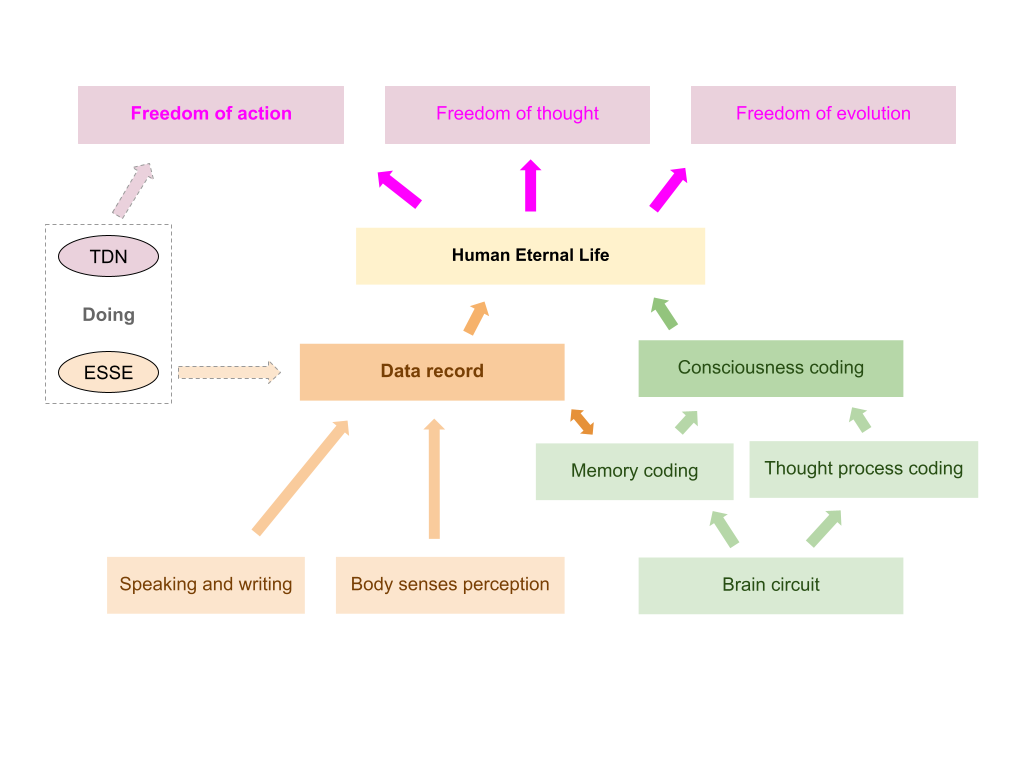
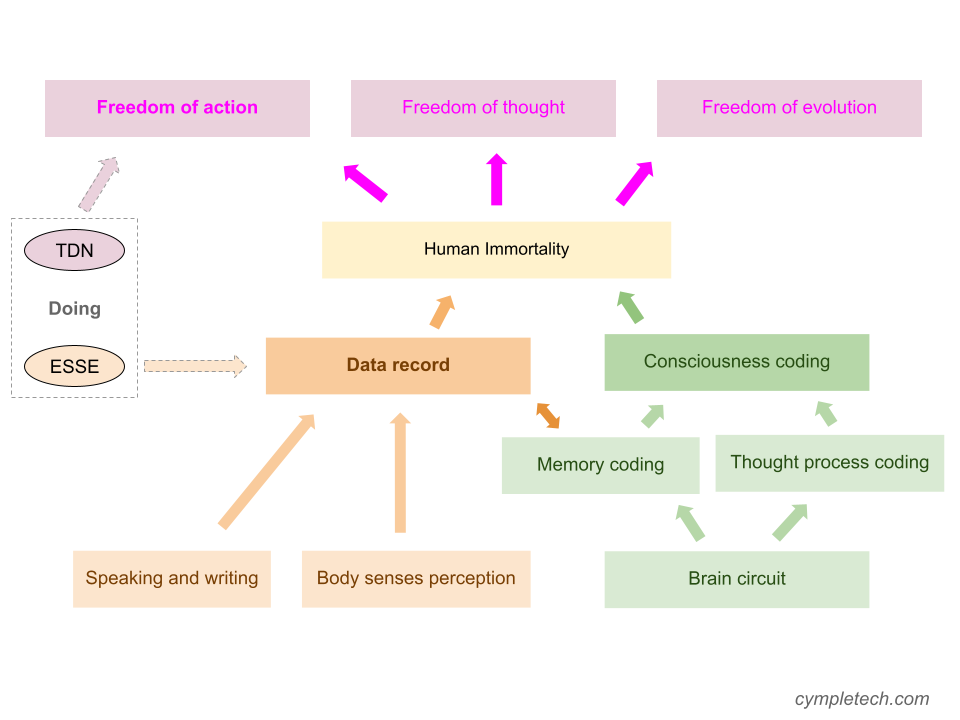
add some docs

diff --git a/docs/langs/waht-we-are-doing_zh.md b/docs/langs/waht-we-are-doing_zh.md
@@ -1,0 +1,46 @@
+众所周知，我们所处的这个行业从来不缺花哨概念，web3/元宇宙/？？等作为噱头被信手拈来，而我们身处风暴中，难免迷失，为了能够看清继续前进的方向，我想好好总结一下，主要会从两条线进行梳理：一是初心；二是目前所做项目的进度与规划。
+
+
+### 一. 初心
+
+
+人活着最终极的梦想是什么呢？
+
+长生不老。
+
+
+而构成人的要素，简单来说，就两种：人的肉体和人的意识。长生不老无非也是从这两个方向下手，要不就改造肉体，修改基因，让细胞能够保持活力甚至再生；要不就延续意识，给予意识一个载体，让其可以永存。前一种或许可以实现，但无法大规模应用，因为如果人人都能长生不老，那逐渐增加的人口对资源的需求量将不可预估，哪怕能够移居外星，哪怕能够实现资源再生，“人口炸弹”也会永远成为一个潜在隐患。而且换个角度来讲，这个方案也需要伴随着高昂的后期投入，普通大众是否人人都能负担得起呢？
+
+
+而后一种方案——延续意识，相对来说，技术复制成本低，后期维护成本低，更有可能成为让所有人都能负担得起，享受得到的长生不老方案。
+
+
+那么延续意识需要具备哪些基础呢？我认为可以区分为：“现在的意识”和“过去的意识”。“现在的意识”是我们能够基于过去的经验积累，对目前现实生活中的刺激，做出相应反应的能力，这一块主要是对大脑运行机制的研究，相关的研究如“脑机接口”等也正在进行中，相信未来某一天会有机会实现，暂时先不做讨论。“过去的意识”包括我们过去输入和输出的各种信息，输入的信息包括我们的身体感官（神经、肌肉、皮肤等）所接受的生理信息，我们读过的每一本书、看过的每一部电影、听过的每一首歌等文化信息；输出的信息包括我们对外发布的一切信息，比如每一条语音、每一张照片、每一条朋友圈、每一句影评乐评甚至是脏话，这些信息现在也正以数据的形式存在着，是被数字信号编译的“我的一部分”。
+
+
+不知道大家有没有看过《黑镜》，其中第二季的第一集就讲述了一个基于逝者生前在网络上发布的文字、照片、视频等信息，通过AI技术进行整合计算，使逝者“获得重生”以陪伴在爱人身边的故事。而这次“重生”的基础，就是我前面提到的“输出信息”。而反观现实生活，我意识到我所有输出的内容，都被平台掌控，平台可以随意地使用、删改我所输出的内容，也就是说，被数字信号所编译的“这一部分我”并不属于我。那么如果技术足够成熟，拥有我数据的平台是不是可以随意复制出一个我呢？（这确实让我后背发凉。）
+
+
+### 二. 目前所做项目的进度与规划
+
+
+因此，我想基于自己的「数据所有权」做一系列尝试，希望能为每个人构建一个安全的数据环境，提供一种真正掌握自己数据的可能。我的地盘，我做主。
+
+
+ESSE：提供数据的可视化和交互入口。拥有面向普通使用者的友好界面，将抽象的数据概念，转化为人人可以实际体验的软件。目前已经初步构建好，具备了包括点对点聊天，群组，笔记，钱包等等实用的功能。
+
+
+TDN：构建一个安全的数据传输通道。包括 P2P 网络，局部网络，中心化网络，虚拟网络，代理与转发网络等。目前已经构建好大部分，已投入实际使用中。
+
+
+PDS：构建一个安全的数据存储方式。包括数据的本地加密存储，个人多设备同步，加密云存储，去中心化存储等。目前正在构建中，部分已实际使用。
+
+
+PDC：构建一个安全的数据处理方式。包含数据的处理的方方面面，数据的可读，可写，可更改，可删除，可安全计算等。目前正在构建中。
+
+
+PDE：构建一个安全的数据分享方式。一种授权他人使用自己数据的能力，包括数据的安全且可靠的交易，数据的共享等。目前也正在构建中。
+
+![Projects with Immortality](https://docs.cympletech.com/what-we-are-doing_zh.png)
+
+为了数据隐私，为了意识延续，奋力前行。Happy Hacking ！

diff --git a/docs/content/docs/introduction.md b/docs/content/docs/introduction.md
@@ -15,22 +15,34 @@ top = false
 +++
 
 ## What is CympleTech
-TODO
+we focus on build modern data security for everyone. Everyone should have the ownership of their data, your place, your rules.
 
 ## What is ESSE
-TODO
+ESSE (Encrypted Symmetrical Session Engine) An open source encrypted peer-to-peer system for data security, and allow data to be sent securely from one terminal to another without going through third-party services.
 
-**Why we need it**
+ESSE, positioned as an engine. The engine is coded in Rust language based on TDN framework, and the cross-platform user interface is built using Flutter.
 
-TODO
+**Features**
 
-**How to use it**
-
-TODO
-
-**Open source and License**
-
-TODO
+- Data Security Fortress
+- Encryption Everywhere
+- Distributed Identity
+- Distributed Devices
+- Distributed Notes & Files
+- Distributed Storage & Synchronization
+- Built-in IM Application
+- Built-in Group Chat Application
+- Built-in Domain Application
+- Built-in Wallet Application (Support ETH/ERC20/ERC721)
+- Built-in Robot assistant Application
+- Multi-identity System
+- Multi-platform Support: Android, iOS, iPadOS, MacOS, Windows, Linux, etc.
 
 ## What is TDN
-TODO
+Trusted Distributed Network. (Also a micro-framework for building blockchain-like applications).
+
+TDN: Let data transfer safely, make the network stable, secure, and highly available.
+
+As the network interconnection, TDN includes peer-to-peer, centralized gateway, proxy & relay service, LAN, RPC, Near, etc.
+
+As the framework of decentralized applications, TDN uses the Layer and Group models. We built this framework because we feel that the blockchain is very limited. If you want a more open and free distributed application development technology, and Pluggable, lightweight application framework, TDN can satisfy you.

diff --git a/docs/content/docs/download.md b/docs/content/docs/download.md
@@ -16,8 +16,21 @@ top = false
 
 ## Download
 
-TODO
+- install from store.
+Waiting. we will upload to AppStore/PlayStore/Desktop Others quickly.
+
+- Pre-compiled binary
+  - [Android APK](https://github.com/CympleTech/ESSE/releases)
+  - [MacOS Binary](https://github.com/CympleTech/ESSE/releases)
+  - [Linux Binary](https://github.com/CympleTech/ESSE/releases)
+  - [Windows Binary](https://github.com/CympleTech/ESSE/releases)
+  - IOS (waiting for upload to AppStore)
+
+- [Build from souce](https://github.com/CympleTech/ESSE)
 
 ## Run ESSE
+- Run `./esse` or open.
 
-TODO
+Do you currently have an account ? If not, You need to create new account. You can use `Quick Create` or `Create Account`. (If you have mnemonics in other wallet (ETH/BTC) products, you can also use mnemonics, and it will restore Ethereum account in the wallet.)
+
+For creating an account, please see the next chapter.

diff --git a/docs/content/blog/what-we-are-doing.md b/docs/content/blog/what-we-are-doing.md
@@ -43,6 +43,6 @@ PDC: Build a safe data processing method. Including all aspects of data processi
 
 PDE: Build a safe way to share data. An ability to authorize others to use their own data, including safe and reliable exchange of data, share data, etc. It is also currently under construction.
 
-![Projects with Immortality](/what-we-are-doing.png)
+![Projects with Immortality](https://docs.cympletech.com/what-we-are-doing.png)
 
 For the data privacy, for the sustainability of consciousness, we are striving to move forward. Happy Hacking!

diff --git a/README.md b/README.md
@@ -1,6 +1,6 @@
 # Website & Docs
 
-Source code of cympletech.com & docs.cympletech.com.
+Source code of [cympletech.com](https://cympletech.com) & [docs.cympletech.com](https://docs.cympletech.com).
 
 ## For more information, please visit:
 - Website: https://cympletech.com
